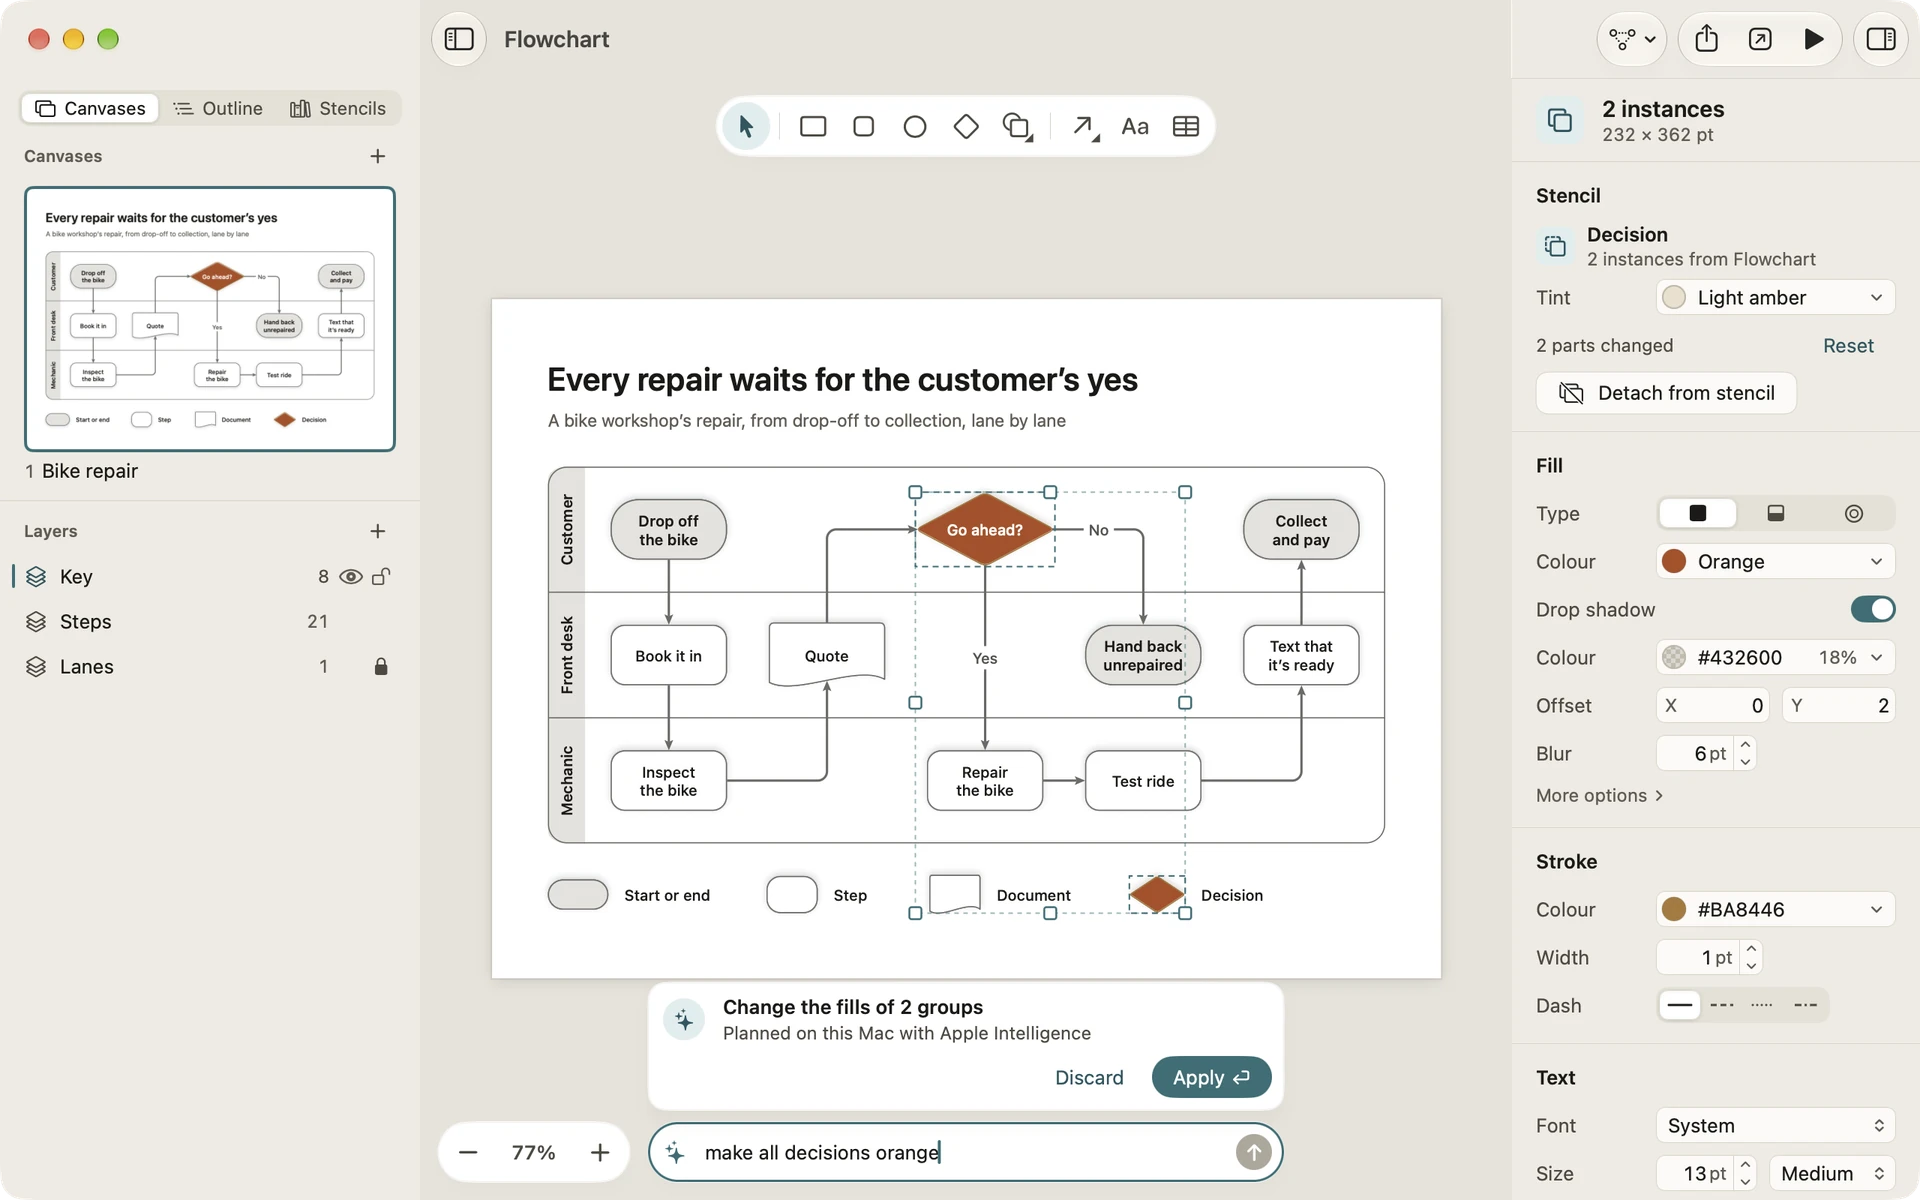
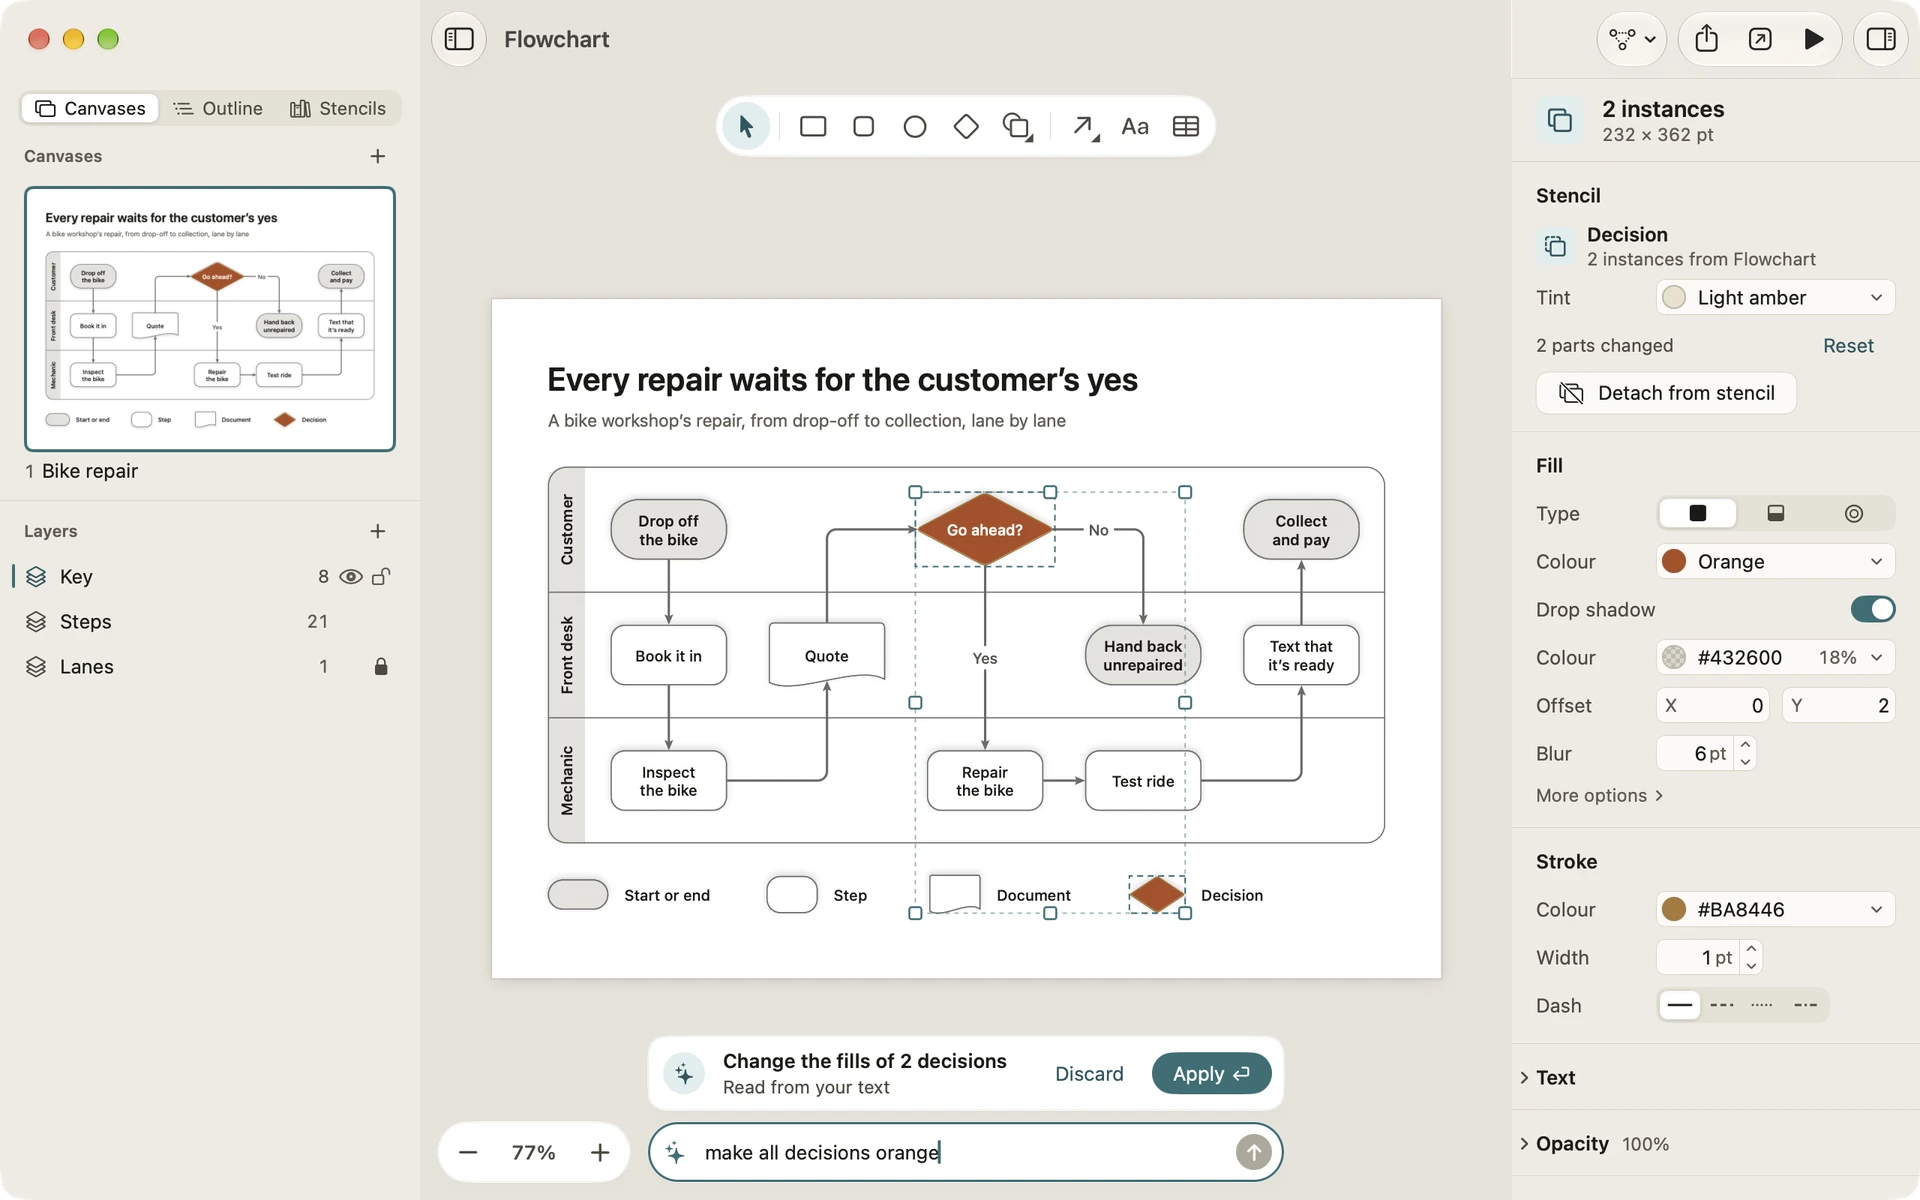
diagrove: prompt-bar's change-on-show taken again without Apple Intelligence: Change the fills of 2 decisions, Read from your text

Changed region(s): [[0.3125, 0.8017, 0.6875, 0.925], [0.7812, 0.925, 0.9688, 0.9867]]

diff --git a/content/diagrove/guide/prompt-bar.md b/content/diagrove/guide/prompt-bar.md
@@ -53,7 +53,7 @@ Any other edit, a click on the canvas, switching canvas or starting Play drops a
 
 When Diagrove can’t work out part of a request, it says what it read and which words it couldn’t, so you can say it another way. A request that asks for no change it knows, such as “make it sparkle”, changes nothing.
 
-![The Flowchart template with make all decisions orange in the prompt bar, the Go ahead? decision shown orange on the canvas, and the card above the bar with its summary, Discard and Apply.](change-on-show.webp "A change on show before you apply it.")
+![The Flowchart template with make all decisions orange in the prompt bar, the Go ahead? decision and the key’s Decision shown orange on the canvas, and the card above the bar: Change the fills of 2 decisions, Read from your text, Discard and Apply.](change-on-show.webp "A change on show before you apply it.")
 
 ## The guide
 
